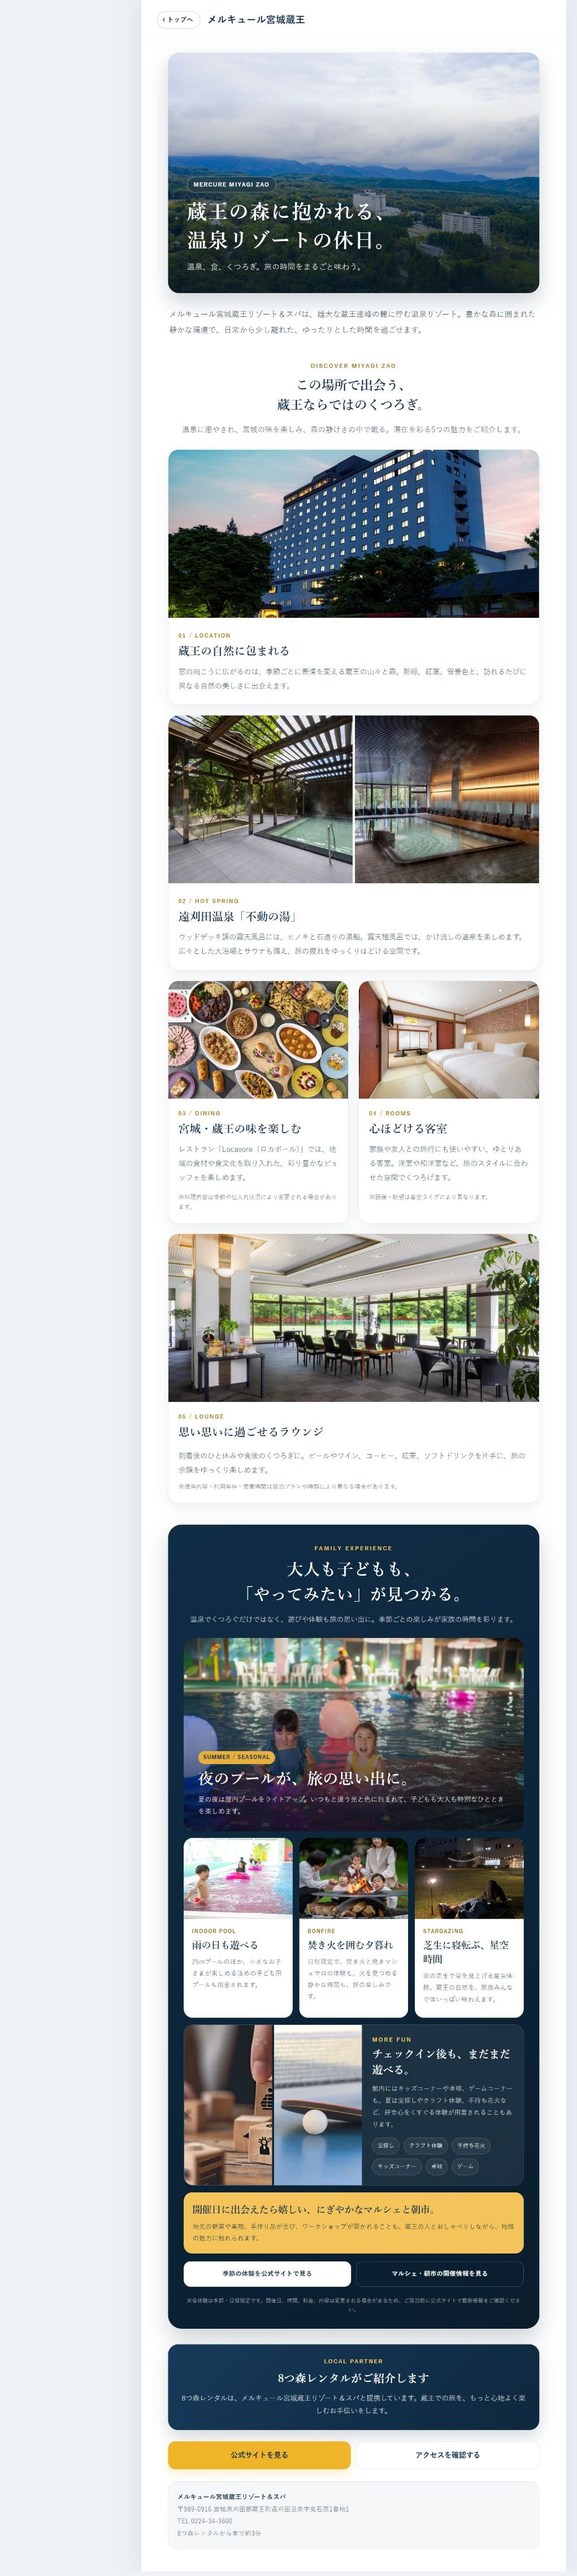
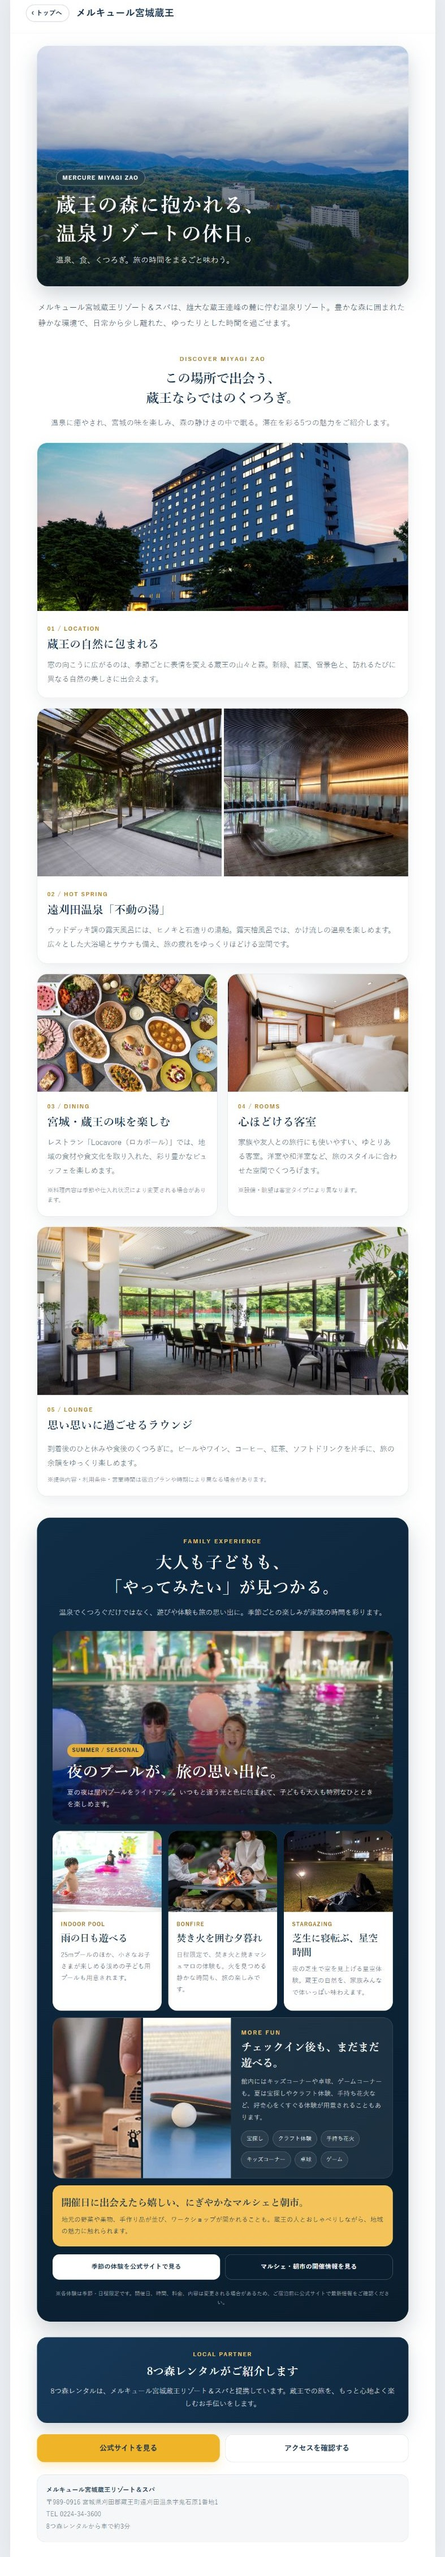
メルキュール画像：左の灰色余白を画像ごと切り落とし＋枠拡大＋キャッシュ回避
原因は画像自体の左に約236pxの空白があったこと。画像をトリミング(787x4520)して中身が
フレーム左端から始まるように。.pageを1120pxに広げて大きく表示、img srcに?v=2を付けて
古い画像キャッシュ（「同じ大きさ」の原因）を回避。スマホは全幅維持。

diff --git a/pages/onsen-guide.html b/pages/onsen-guide.html
@@ -30,7 +30,7 @@
    画像は一列で大きく（枠いっぱい）。スマホは画面いっぱい全幅。 */
 .mercure-embed{display:block;width:calc(100% + 40px);max-width:none;height:auto;margin:8px -20px 4px}
 @media(min-width:760px){
-  .page{max-width:1040px}
+  .page{max-width:1120px}
   .og-lead,.og-body,.og-note{max-width:840px}
   .mercure-embed{width:100%;margin:12px 0}
 }
@@ -69,7 +69,7 @@
 
     <div class="og-h">提携ホテル：メルキュール宮城蔵王</div>
     <p class="mercure-cap">⚠ たたき台（デザイン案）です。内容・写真・文言は今後調整します。メルキュール宮城蔵王とは提携のうえ掲載許可をいただいています。</p>
-    <img id="mercure-embed" class="mercure-embed" src="../assets/img/mercure/full.jpg" alt="メルキュール宮城蔵王リゾート＆スパ 紹介ページ案" loading="lazy">
+    <img id="mercure-embed" class="mercure-embed" src="../assets/img/mercure/full.jpg?v=2" alt="メルキュール宮城蔵王リゾート＆スパ 紹介ページ案" loading="lazy">
 
     <div class="wizard-actions" style="margin-top:18px">
       <a class="btn-nav primary btn-block" href="../reserve.html">WEBで予約する</a>
